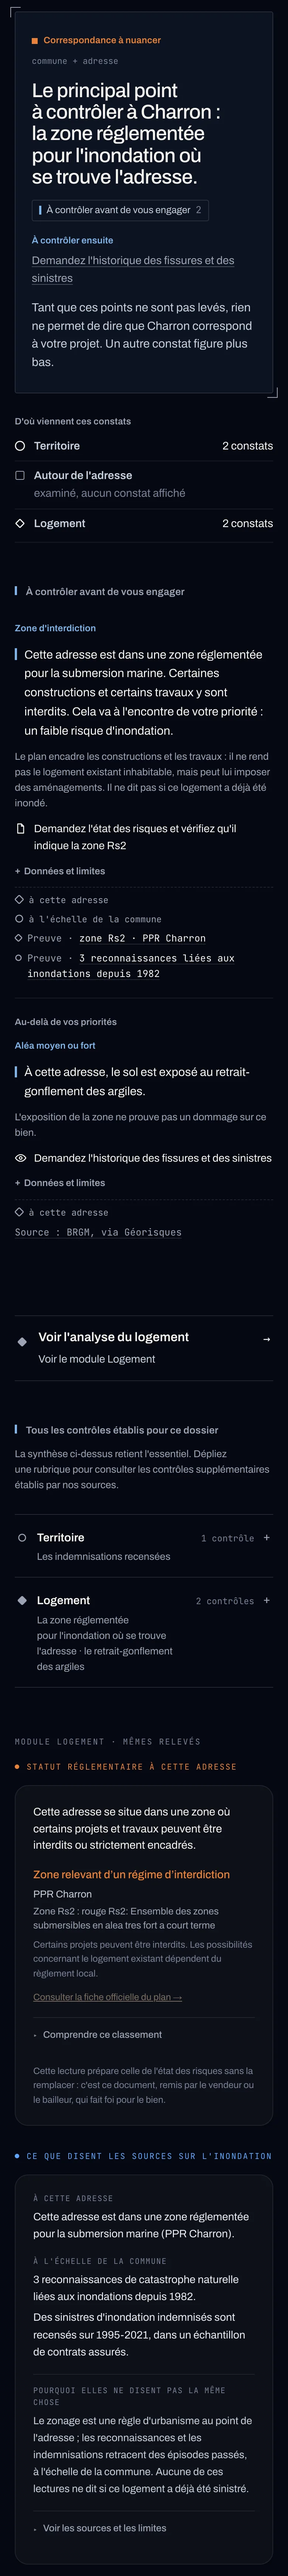
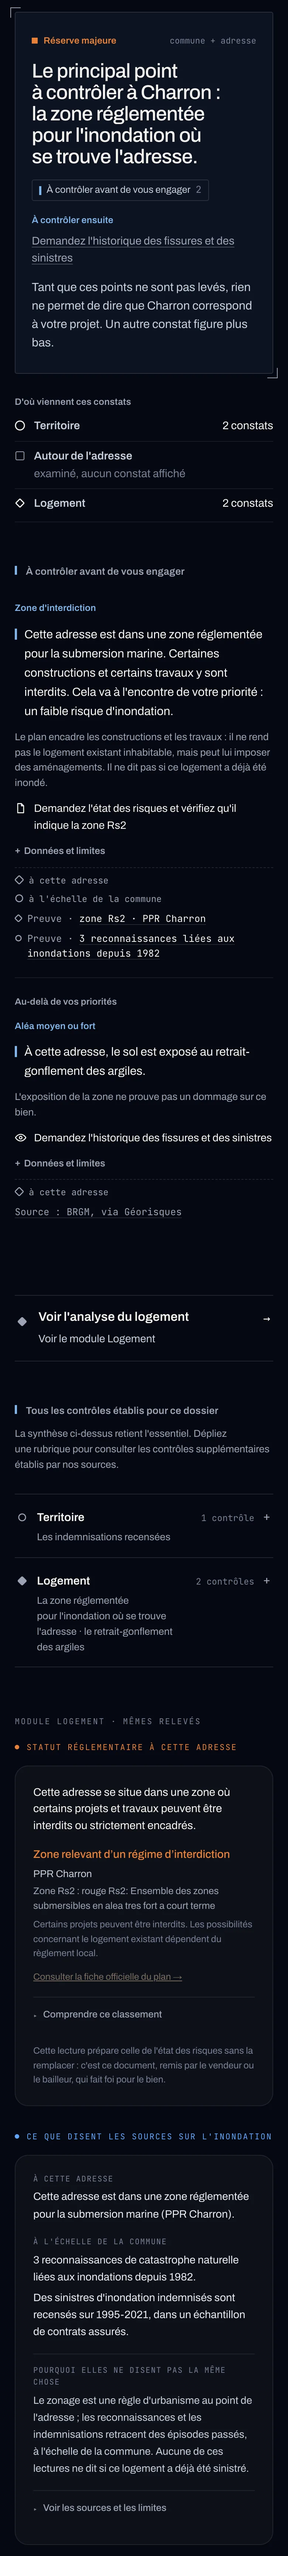
FUT-127 : « Réserve majeure » et la réserve décisive avant ce qui correspond
Arbitrages du porteur du 23/10/2026.
- conclusion-plan : l'étiquette « Réserve majeure » remplace « Correspondance à nuancer »
  (ou « Lecture encore partielle ») quand une réserve decision_critical est affichée, soit
  aujourd'hui la seule zone inondation établie à l'adresse. Incertitude, donnée manquante,
  divergence point / parcelle : étiquette inchangée.
- decision-assembler : la section des contrôles passe avant « Ce qui correspond » dans ce
  seul cas ; la correspondance reste affichée juste après. Ordre inchangé sinon.
- Tests de non-régression (Charron achat, location, résident ; Châtelaillon, Duperré,
  Minimes, muet, commune, hors zone ; zone rouge avec priorité favorable).
- Banc /dev/fut127 : cas d'essai « reserve-favorable » ; captures ciblées.

diff --git a/src/lib/fut127-inondation-adresse.test.ts b/src/lib/fut127-inondation-adresse.test.ts
@@ -91,6 +91,7 @@ before(async () => {
     ...(await import("./pprn-zonage.ts")),
     ...(await import("./data/gaspar-pprn-inondation.ts")),
     ...(await import("../components/releve/lecture-dossier.ts")),
+    ...(await import("./decision/dossier-view.ts")),
     ...(await import("./hard-constraints-hydrate.ts")),
     ...(await import("./hard-constraints.ts")),
     ...(await import("./user-project.ts")),
@@ -279,6 +280,61 @@ test("Charron, inondation confirmée comme condition : plutôt défavorable à l
   const sans = dossier("17091", { adresse: null, confirme: true });
   const k2 = sans.run.facts.find((f: M) => f.role === "condition_check" && f.criterion.key === "faible_risque_inondation");
   assert.equal(k2.signal, "neutre", "un plan communal ne dit pas où est l'adresse");
+});
+
+// ═══════════════════════════════════ 1 bis. LA RÉSERVE MAJEURE (arbitrage du 23/10/2026) ═══════════
+
+const ordreDeLecture = (d: M): string[] => D.lireDossier(d).sections.map((s: M) => s.cle);
+
+test("Réserve majeure : l'étiquette dit la zone d'interdiction établie, et le titre nomme l'enjeu", () => {
+  for (const o of [{ adresse: "charron" }, { adresse: "charron", intent: "location" }, { adresse: "charron", relation: { echelle: "adresse", relation: "j_y_habite" } }] as Opts[]) {
+    const v = verdict(dossier("17091", o).d);
+    assert.equal(v.etiquette, "Réserve majeure", JSON.stringify(o));
+    assert.equal(v.ton, "caution", "une réserve n'est pas une incompatibilité");
+    assert.equal(v.titre, "Le principal point à contrôler à Charron : la zone réglementée pour l'inondation où se trouve l'adresse.");
+    // Jamais une impossibilité d'habiter, ni dans le verdict ni dans la carte qu'il nomme.
+    const tout = `${v.titre} ${v.detail ?? ""} ${toutLeTexte(dossier("17091", o).d)}`;
+    assert.doesNotMatch(tout, /interdit d'habiter|ne peut pas être habité|impossible d'y vivre|logement inhabitable/);
+    assert.match(tout, /il ne rend pas le logement existant inhabitable/);
+  }
+});
+
+test("Réserve majeure, strictement : ni l'incertitude, ni la donnée manquante, ni la divergence point / parcelle", () => {
+  const cas: [string, string, Opts][] = [
+    ["divergence Châtelaillon (une des lectures interdit)", "17094", { adresse: "chatel" }],
+    ["risque concerné à confirmer (Quai Duperré)", "17300", { adresse: "lr-duperre" }],
+    ["rattachement de repli (Minimes)", "17300", { adresse: "lr-minimes" }],
+    ["Géorisques muet", "17300", { adresse: "lr-duperre", muet: true }],
+    ["dossier communal", "17091", { adresse: null }],
+    ["hors zone", "17300", { adresse: "lr-palais" }],
+  ];
+  for (const [nom, insee, o] of cas) {
+    const { d } = dossier(insee, o);
+    assert.notEqual(verdict(d).etiquette, "Réserve majeure", nom);
+    assert.equal(carteInondation(d)?.materialityTier === "decision_critical", false, nom);
+  }
+  // La condition confirmée garde son propre verdict (FUT-7) : « Condition ouverte », plutôt défavorable.
+  assert.equal(verdict(dossier("17091", { adresse: "charron", confirme: true }).d).etiquette, "Condition ouverte");
+});
+
+test("Réserve majeure avec une priorité favorable : la zone rouge passe avant, la correspondance reste visible", () => {
+  // Le relevé réel de Charron (zone rouge Rs2) lu sur une commune où l'accès aux soins est favorable.
+  const { d } = dossier("17300", { adresse: "charron" });
+  assert.equal(verdict(d).etiquette, "Réserve majeure");
+  assert.match(verdict(d).detail ?? "", /Par ailleurs, l'accès aux soins répond bien à votre projet\./, "la balance reste dite");
+  assert.deepEqual(ordreDeLecture(d), ["verifications", "alignments"], "le Relevé lit la réserve d'abord");
+  assert.deepEqual(D.sectionsDeLaMinute(d).map((s: M) => s.key), ["verifications", "alignments"], "la présentation classique aussi");
+  assert.equal(D.sectionsDeLaMinute(d)[0].cards[0].fact.ruleId, "territoire.inondation-exposition", "et la carte inondation ouvre les contrôles");
+  // Le dossier complet garde aussi la correspondance, juste après.
+  assert.ok(d.sections.some((s: M) => s.key === "alignments" && s.cards.length > 0));
+});
+
+test("Sans réserve décisive, l'ordre des sections ne change pas : les correspondances ouvrent toujours", () => {
+  for (const [insee, o] of [["17300", { adresse: "lr-duperre" }], ["17094", { adresse: "chatel" }], ["17300", { adresse: null }], ["17300", { adresse: "lr-palais" }]] as [string, Opts][]) {
+    const { d } = dossier(insee, o);
+    assert.equal(d.sections[0].key, "alignments", JSON.stringify(o));
+    assert.equal(ordreDeLecture(d)[0], "alignments", JSON.stringify(o));
+  }
 });
 
 // ═══════════════════════════════════ 2. LA ROCHELLE : LE RENVOI GÉNÉRIQUE ═══════════════════════════

diff --git a/src/lib/decision/conclusion-plan.ts b/src/lib/decision/conclusion-plan.ts
@@ -573,6 +573,18 @@ const POSTURE = (text: string): VerdictHeadline =>
 
 // LA DOUBLE GATE. Un headline qui nomme doit tenir les DEUX conditions, sinon la branche entière
 // retombe en posture : jamais un héros à moitié nommé, jamais une phrase qui déborde sa mesure.
+// « RÉSERVE MAJEURE » (FUT-127, arbitrage du porteur du 23/10/2026). « Correspondance à nuancer » se lisait
+// comme une nuance secondaire au-dessus d'une adresse en zone d'interdiction submersible, alors que le
+// lecteur avait demandé un faible risque d'inondation. L'étiquette change quand une réserve
+// `decision_critical` est AFFICHÉE : aujourd'hui, seule une zone inondation ÉTABLIE à l'adresse en produit
+// une (liée explicitement à l'inondation, rattachement fiable, régime d'interdiction ou particulier ;
+// `materiality-rules.ts`). Une incertitude, une donnée manquante ou une divergence point / parcelle restent
+// `structuring` et gardent l'étiquette ordinaire. Le ton ne change pas : une réserve n'est pas une
+// incompatibilité, celle-ci a sa propre étiquette (« Condition non respectée »).
+function reserveMajeureEtablie(input: Pick<ConclusionPlanInput, "shownFacts">): boolean {
+  return input.shownFacts.some((f) => f.role === "verification" && f.materialityTier === "decision_critical");
+}
+
 function nameIssues(
   text: string,
   candidates: LeadCandidate[],
@@ -1377,7 +1389,7 @@ function verdictBrut(input: ConclusionPlanInput, controles: PerimetreControles):
     // alors son compte plutôt que d'annoncer zéro, et la clause « plus bas » porte tout le dossier.
     const montres = controles.visibles;
     return {
-      label: "Correspondance à nuancer", tone: "caution",
+      label: reserveMajeureEtablie(input) ? "Réserve majeure" : "Correspondance à nuancer", tone: "caution",
       // « conclure à Toulouse » se lit comme « tirer une conclusion sur place » : la conclusion porte
       // SUR la commune, elle ne s'y tient pas.
       headline: namedReserve ?? POSTURE(
@@ -1429,7 +1441,7 @@ function verdictBrut(input: ConclusionPlanInput, controles: PerimetreControles):
     };
   }
   return {
-    label: "Lecture encore partielle", tone: "caution",
+    label: reserveMajeureEtablie(input) ? "Réserve majeure" : "Lecture encore partielle", tone: "caution",
     headline: namedReserve ?? POSTURE(`Il est encore trop tôt pour dire que ${voc.repond(nom)}.`),
     // « 2 points structurants demandent attention » : sans déterminant, la phrase n'est pas française,
     // et « structurants » est le nom d'un materialityTier, soit la tuyauterie que le lot A retire

diff --git a/src/lib/decision/decision-assembler.ts b/src/lib/decision/decision-assembler.ts
@@ -118,6 +118,24 @@ function factEvidence(f: DecisionFact): EvidenceRef[] {
   return f.role === "compromise" ? f.sides.flatMap((s) => s.evidence) : f.evidence;
 }
 
+// UNE RÉSERVE MAJEURE PASSE AVANT CE QUI CORRESPOND (FUT-127, arbitrage du porteur du 23/10/2026).
+// Les correspondances ouvrent d'ordinaire les cartes, juste sous le verdict qui les annonce. Mais à
+// Charron, avec une autre priorité favorable, « Ce qui correspond à votre projet » s'affichait AU-DESSUS
+// d'une adresse en zone d'interdiction submersible : la réserve se lisait comme une nuance après coup.
+// Quand une carte de contrôle `decision_critical` est assemblée (aujourd'hui, la seule zone inondation
+// établie à l'adresse), la section des contrôles remonte juste après les conditions sans compromis.
+// Les correspondances suivent immédiatement : rien n'est retiré, la balance reste visible. Sans réserve
+// décisive, l'ordre ne change pas.
+function avantLesCorrespondancesSiCritique(sections: DossierSection[]): DossierSection[] {
+  const controles = sections.find((s) => s.key === "verifications");
+  const critique = controles?.cards.some((c) => c.kind === "fact" && c.fact.role === "verification" && c.fact.materialityTier === "decision_critical");
+  if (!controles || !critique) return sections;
+  const sans = sections.filter((s) => s !== controles);
+  const apres = sans.findIndex((s) => s.key !== "incompatibilities");
+  const i = apres === -1 ? sans.length : apres;
+  return [...sans.slice(0, i), controles, ...sans.slice(i)];
+}
+
 export function assembleDossier(
   run: RunResult,
   project: UserProject,
@@ -179,7 +197,7 @@ export function assembleDossier(
     // ce que le DOSSIER contient, pas ce que la minute montre.
     { key: "verifications", title: l.verifTitle, cards: sectionCards(facts, compositions, ["verification"], "verifications", Number.POSITIVE_INFINITY) },
   ];
-  const sections = candidates.filter((s) => s.cards.length > 0);
+  const sections = avantLesCorrespondancesSiCritique(candidates.filter((s) => s.cards.length > 0));
   const allCards = sections.flatMap((s) => s.cards);
   const shown = allCards.filter((c): c is DossierCard & { kind: "fact" } => c.kind === "fact").map((c) => c.fact);
   const shownComps = allCards.filter((c): c is DossierCard & { kind: "composition" } => c.kind === "composition").map((c) => c.composition);

diff --git a/src/app/dev/fut127/page.tsx b/src/app/dev/fut127/page.tsx
@@ -50,6 +50,9 @@ type Cas = {
 };
 const CAS: Cas[] = [
   { nom: "charron-adresse", titre: "Charron · Dossier Adresse, acheteur · zone rouge Rs2 « zones submersibles »", insee: "17091", adresse: "charron" },
+  // Cas d'essai (arbitrage du 23/10) : le relevé réel de Charron lu sur une commune où l'accès aux soins est
+  // favorable. Il montre une réserve majeure à côté d'une correspondance ; ce n'est pas une adresse réelle.
+  { nom: "reserve-favorable", titre: "Cas d'essai · zone rouge Rs2 (relevé de Charron) avec une priorité favorable (accès aux soins, commune de La Rochelle)", insee: "17300", adresse: "charron" },
   { nom: "charron-condition", titre: "Charron · Dossier Adresse · inondation confirmée comme condition", insee: "17091", adresse: "charron", confirme: true },
   { nom: "charron-commune", titre: "Charron · dossier communal, acheteur", insee: "17091", adresse: null },
   { nom: "lr-commune", titre: "La Rochelle · dossier communal, acheteur", insee: "17300", adresse: null },

diff --git a/docs/audits/2026-10-22-fut127-correctifs/README.md b/docs/audits/2026-10-22-fut127-correctifs/README.md
@@ -27,8 +27,8 @@ Arbitrages du porteur du 22/10/2026 appliqués tels quels (option A, paliers, co
 
 ## Preuves
 
-- `npm test` : **2 985 tests, 0 échec** après la passe du 23/10. Avec la PR #82 (FUT-126) fusionnée à blanc : 2 997 tests, 0 échec, aucun conflit. `npx tsc --noEmit` et `eslint` sur les fichiers touchés : propres.
-- `src/lib/fut127-inondation-adresse.test.ts` (22 tests) : la vraie chaîne sur l'index réel, la table GASPAR et les relevés Géorisques réels figés dans `src/lib/__fixtures__/fut127/`. Cas couverts : Charron ; La Rochelle (commune, Os1, Minimes, rue du Palais) ; Châtelaillon ; Géorisques muet ; aléas non lus ; chaque modèle de plan ; quatre postures ; poids 1 ; priorité non déclarée ; liste « à vérifier » du module ; parité classique / Relevé ; bloc réglementaire rendu ; analyses figées relues à l'identique et contextualisées. Les textes des trois niveaux y sont figés.
+- `npm test` : **2 989 tests, 0 échec** après les arbitrages du 23/10. Avec la PR #82 (FUT-126) fusionnée à blanc : 3 001 tests, 0 échec, aucun conflit. `npx tsc --noEmit` et `eslint` sur les fichiers touchés : propres.
+- `src/lib/fut127-inondation-adresse.test.ts` (26 tests) : la vraie chaîne sur l'index réel, la table GASPAR et les relevés Géorisques réels figés dans `src/lib/__fixtures__/fut127/`. Cas couverts : Charron ; La Rochelle (commune, Os1, Minimes, rue du Palais) ; Châtelaillon ; Géorisques muet ; aléas non lus ; chaque modèle de plan ; quatre postures ; poids 1 ; priorité non déclarée ; liste « à vérifier » du module ; parité classique / Relevé ; bloc réglementaire rendu ; analyses figées relues à l'identique et contextualisées. Les textes des trois niveaux y sont figés.
 - `src/lib/fut127-georisques-appels.test.ts` (5 tests) : le nombre d'appels et le chronométrage, sur le vrai `georisques.ts` (voir « Performances »).
 - Captures : `captures/`, rendues par `/dev/fut127` (relevés réels, composants de production, aucune donnée client, `DOSSIER_NARRATIVE=false`, aucune clé). Script : `scripts/fut127/capturer.mjs` (`--deplier` ouvre « Données et limites »), puis conversion en WebP. Aucun débordement horizontal à 1440, 390 et 360 px.
 
@@ -82,9 +82,14 @@ La face garde une seule ligne de limite, celle qui empêche le contresens, et le
 
 **Ce que fait le moteur.** La zone d'interdiction pèse `decision_critical`. Le registre la classe « réserve » au palier critique. Le verdict la **nomme dans son titre** et la carte passe en tête des contrôles. Le moteur fonctionne donc. Le défaut était éditorial : le titre disait « le zonage inondation de l'adresse » sans dire qu'une zone réglementée avait été lue, et la carte ne disait pas que cela va contre la priorité. Les deux sont corrigés.
 
-**Ce qui reste faible, et ce que je soumets à arbitrage, sans l'avoir appliqué :**
-- **L'étiquette.** « Correspondance à nuancer » est la même pour une zone d'interdiction que pour une réserve ordinaire. Proposition : « Réserve majeure » (ton inchangé) quand une réserve `decision_critical` est affichée. Mesure faite par prototype, puis annulé : 0 test sur 2 985 ne change. Aujourd'hui, seule la zone inondation établie produit une réserve critique (les incompatibilités ont leur propre étiquette, « Condition non respectée »). Le changement ne toucherait donc que ce cas.
-- **L'ordre des sections.** Quand une autre priorité est favorable (cas simulé : zone Rs2 et accès aux soins favorable), la section « Ce qui correspond à votre projet » s'affiche **au-dessus** de la carte de la zone d'interdiction, dans les deux présentations. Le verdict reste celui des réserves (« Ces points pèsent dans votre décision. Par ailleurs, l'accès aux soins répond bien à votre projet. »). Proposition : faire passer les contrôles avant les correspondances quand une réserve critique est affichée. Ordre commun à tout le dossier : non modifié.
+**Arbitrages du porteur du 23/10, appliqués :**
+- **« Réserve majeure ».** Cette étiquette remplace « Correspondance à nuancer », ou « Lecture encore partielle », quand une réserve `decision_critical` est affichée (`reserveMajeureEtablie`, `conclusion-plan.ts`). Aujourd'hui, seule une zone inondation **établie** à l'adresse en produit une : liée explicitement à l'inondation, rattachement fiable, régime d'interdiction ou particulier. Le ton reste « caution » : une réserve n'est pas une incompatibilité.
+  - **Non concernés** : l'incertitude (risque concerné à confirmer), la donnée manquante (Géorisques muet, dossier communal), la divergence point / parcelle, le rattachement de repli, le hors zone. Ils gardent l'étiquette ordinaire.
+  - **Condition confirmée** : elle garde son verdict propre, « Condition ouverte », plutôt défavorable.
+  - **Arbitrage entre priorités** (un écart structurant en plus de la zone) : l'orientation reste « Arbitrage ». Ce cas n'est pas modifié.
+- **Le titre nomme l'enjeu.** « Le principal point à contrôler à Charron : la zone réglementée pour l'inondation où se trouve l'adresse. » Ni le verdict ni la carte ne parlent d'impossibilité d'habiter. La carte dit le contraire : « il ne rend pas le logement existant inhabitable ». Un test le vérifie.
+- **La réserve passe avant ce qui correspond.** Quand une carte de contrôle `decision_critical` est assemblée, la section des contrôles remonte juste après les conditions sans compromis (`avantLesCorrespondancesSiCritique`, `decision-assembler.ts`). « Ce qui correspond à votre projet » suit immédiatement : la balance reste visible, et le verdict la dit (« Par ailleurs, l'accès aux soins répond bien à votre projet »). Sans réserve décisive, l'ordre ne change pas : le test couvre le Quai Duperré, Châtelaillon, la commune et la rue du Palais.
+- **Cas d'essai** `reserve-favorable` (banc `/dev/fut127`) : le relevé réel de Charron lu sur la commune de La Rochelle, où l'accès aux soins est favorable. Captures `reserve-favorable-*` à 1440, 390 et 360 px, dans les deux présentations.
 
 ## 3. Performances
 
@@ -109,7 +114,7 @@ La face garde une seule ligne de limite, celle qui empêche le contresens, et le
 
 ## 4. Comparateur gratuit
 
-Ticket P0 distinct, lié à FUT-127 : **FUT-129**. 1 721 communes couvertes par un plan inondation approuvé ou anticipé y ressortent « Risque d'inondation faible » ou « peu de reconnaissances CatNat inondation ». Ce ticket contient le recensement des surfaces touchées, la solution recommandée, les arbitrages et les critères d'acceptation. Rien n'est modifié dans le comparateur par cette PR.
+Ticket P0 distinct, lié à FUT-127 : **FUT-129**. Le plafond n'a pas été validé. Les options y sont mesurées sur l'index complet : plafond, neutralisation, recul des communes à plan. La recommandation est la neutralisation, dite au lecteur. 1 721 communes couvertes par un plan inondation approuvé ou anticipé y ressortent « Risque d'inondation faible » ou « peu de reconnaissances CatNat inondation ». Ce ticket contient le recensement des surfaces touchées, la solution recommandée, les arbitrages et les critères d'acceptation. Rien n'est modifié dans le comparateur par cette PR.
 
 ## 5. Vérifications de la passe
 
@@ -119,4 +124,4 @@ Ticket P0 distinct, lié à FUT-127 : **FUT-129**. 1 721 communes couvertes par 
 - **FUT-126 / PR #82.** Aucun de ses fichiers touché. Fusion à blanc sans conflit, 2 997 tests verts.
 - **Analyses historiques.** Relues à l'identique, avertissement reformulé, tests verts.
 - **Garde-fou CatNat.** `/dev/fut127` réécrivait la phrase du compte : le test `la phrase du compte n'est écrite QUE dans catnat-evidence` échouait déjà sur le commit précédent de cette PR, contrairement à ce que j'avais annoncé (« 0 échec »). La page passe désormais par `phraseConstatCatnatInondation`.
-- **Captures.** 32 PNG (11 Mo) remplacés par 17 WebP (3,6 Mo) : les cas représentatifs, dont Charron à 1440, 390 et 360 px, Charron avec les preuves dépliées, Châtelaillon à 390 et 360 px, et les analyses figées. Les deux captures « avant » communales (`main`) sont conservées. Les anciennes PNG restent dans l'historique du commit précédent ; une fusion en « squash » ne les ferait pas entrer dans `main`.
+- **Captures.** 32 PNG (11 Mo) remplacés par 22 WebP (5,2 Mo) : les cas représentatifs, dont Charron à 1440, 390 et 360 px, Charron avec les preuves dépliées, Châtelaillon à 390 et 360 px, et les analyses figées. Les deux captures « avant » communales (`main`) sont conservées. Les anciennes PNG restent dans l'historique du commit précédent ; une fusion en « squash » ne les ferait pas entrer dans `main`.
